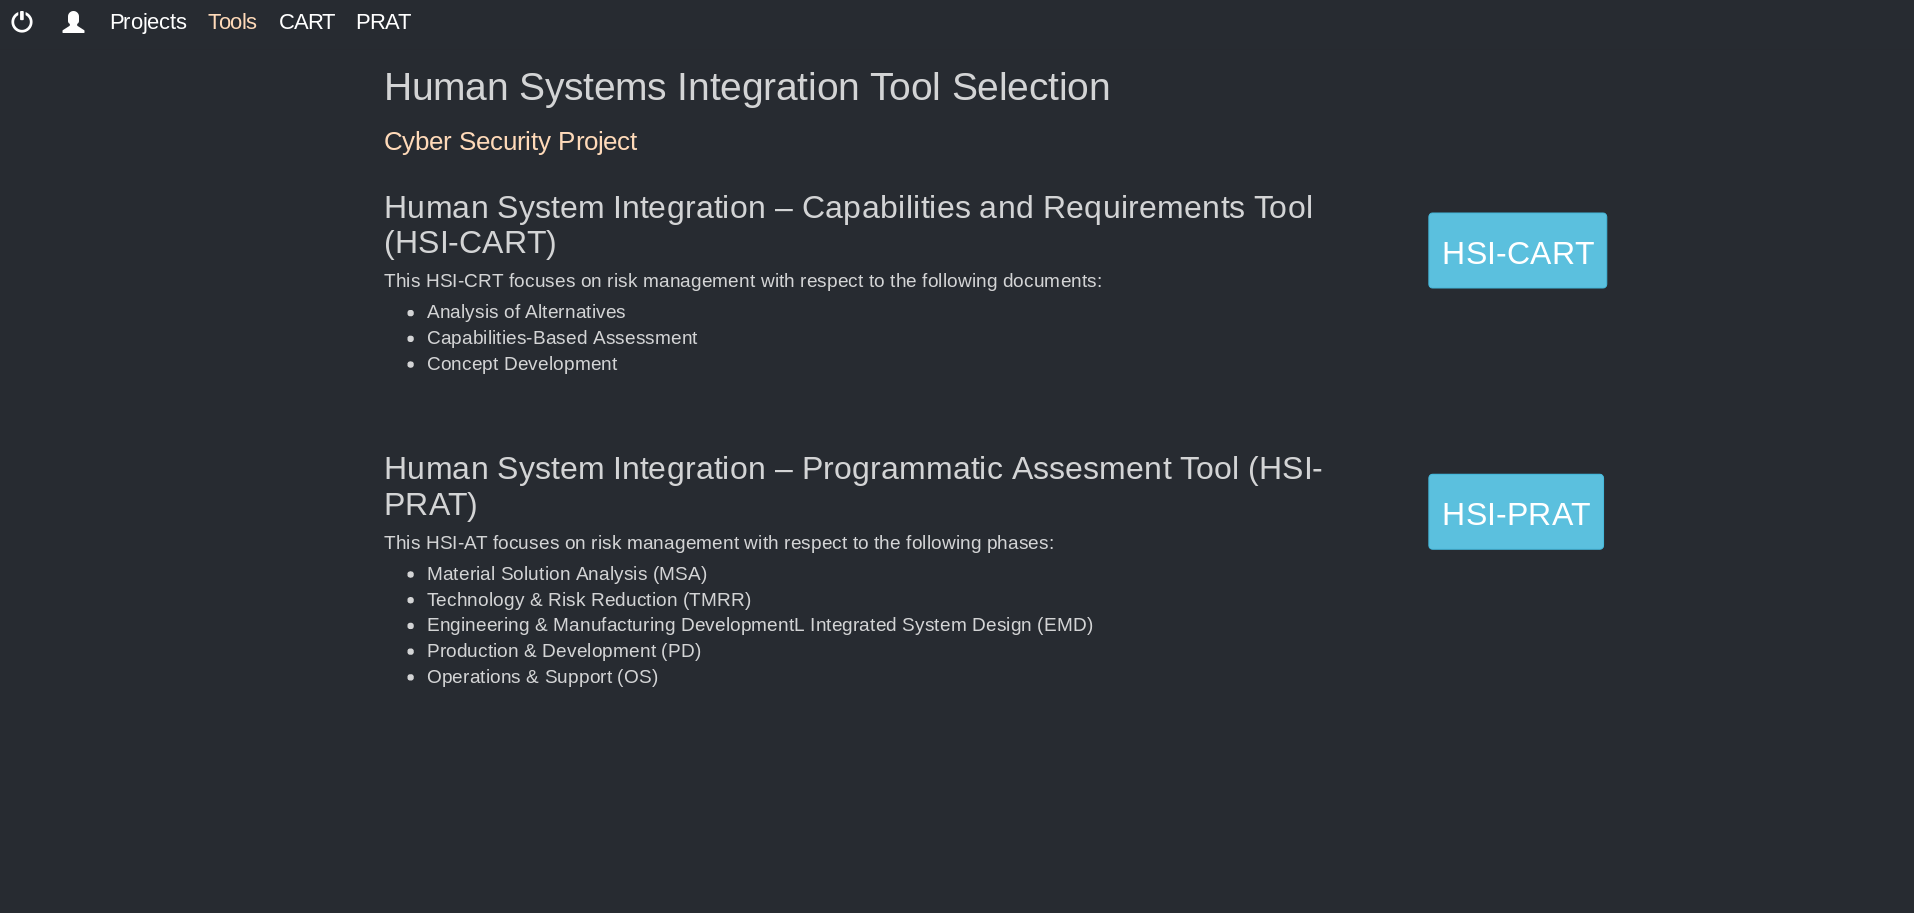
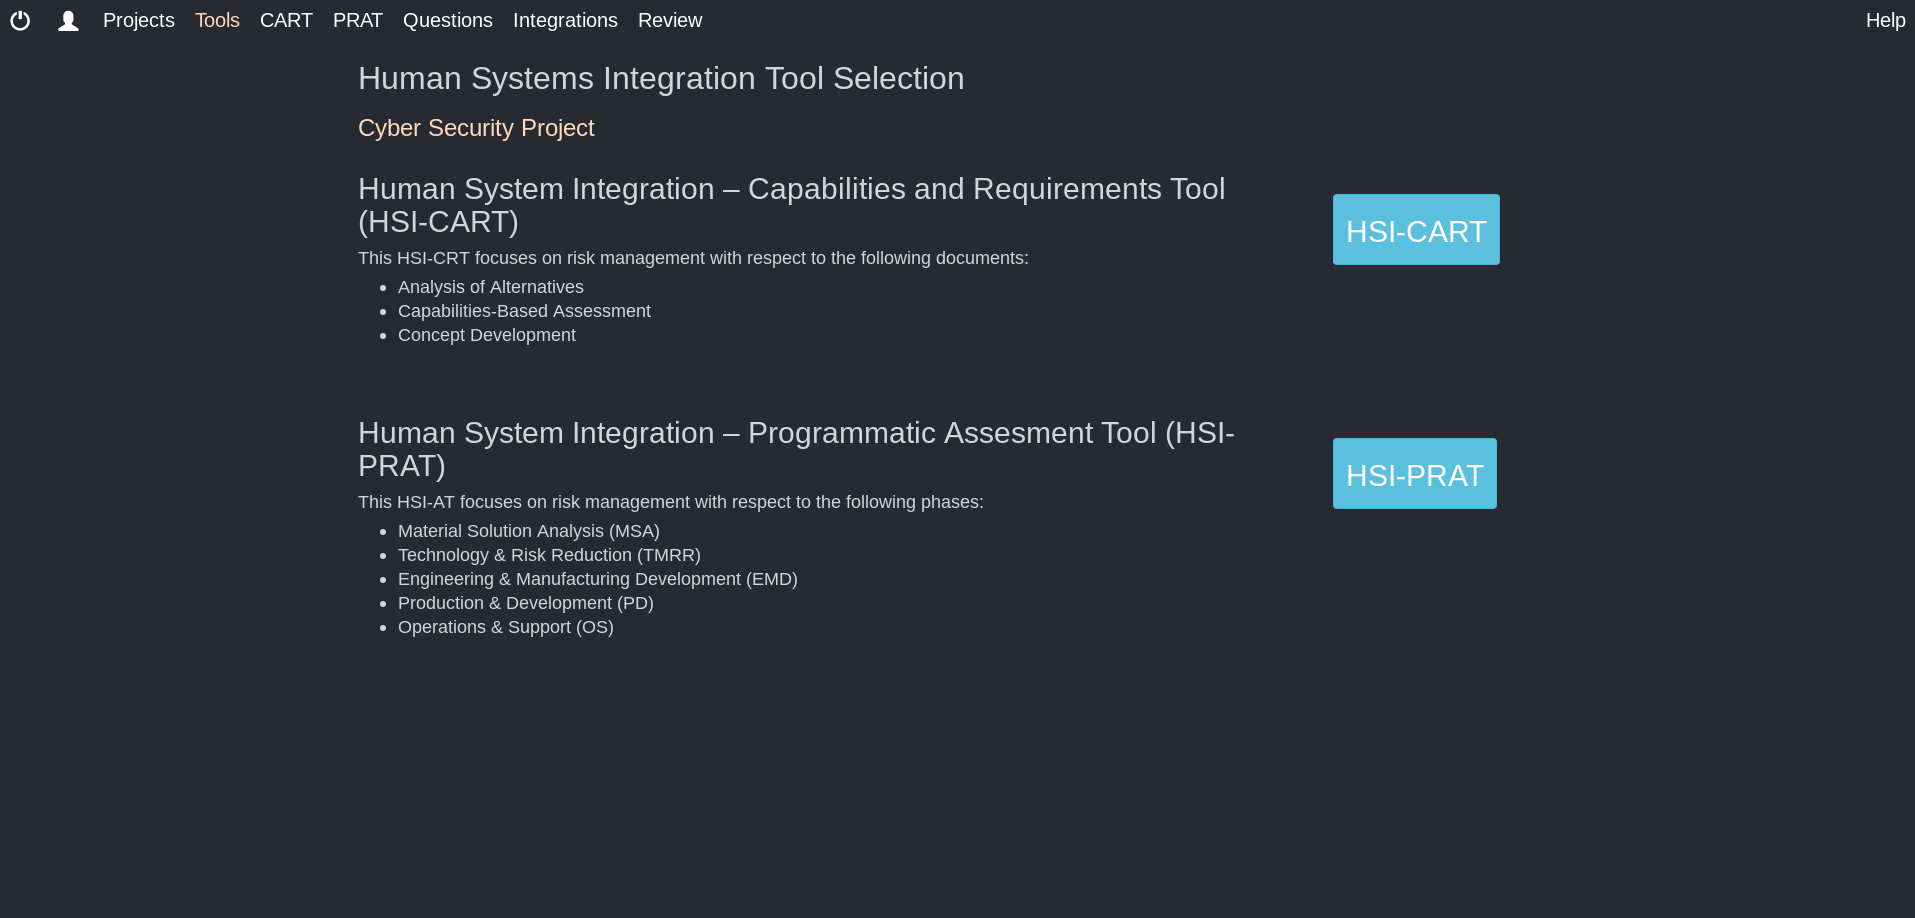
final help edits for prod

diff --git a/src/app/help/help.component.html b/src/app/help/help.component.html
@@ -36,7 +36,7 @@
     <li (click)="scrollToElement('2')" class="toc-level-1"><span class="toc-number">2.</span>USING THE HSI RISK MANAGEMENT TOOL</li>
 
     <li (click)="scrollToElement('2.1')" class="toc-level-2"><span class="toc-number">2.1</span>Editing Projects</li>
-    <li (click)="scrollToElement('2.1.1')" class="toc-level-3"><span class="toc-number">2.1.1</span>Return to the Last E#dited Questionnaire</li>
+    <li (click)="scrollToElement('2.1.1')" class="toc-level-3"><span class="toc-number">2.1.1</span>Return to the Last Edited Questionnaire</li>
     <li (click)="scrollToElement('2.1.2')" class="toc-level-3"><span class="toc-number">2.1.2</span>Switch Questionnaires</li>
     <li (click)="scrollToElement('2.1.3')" class="toc-level-3"><span class="toc-number">2.1.3</span>Edit the Project Title and Description</li>
     <li (click)="scrollToElement('2.1.4')" class="toc-level-3"><span class="toc-number">2.1.4</span>Archive a Project</li>
@@ -114,7 +114,7 @@
       support the system.
     </li>
 
-    <li>Training – design and development of instruction, resources, and support required to impart system end users
+    <li>Training – Design and development of instruction, resources, and support required to impart system end users
       with the required knowledge, skills, and abilities necessary to operate, maintain, and support the system.
     </li>
 
@@ -492,7 +492,7 @@
       not apply, you can reset the answer by clicking the keyboard "Control" + "Backspace/Delete" keys.</p>
 
   
-  <h2 id="2.3">2.3 Creating And Editing Integration Evaluations</h2>
+  <h2 id="2.3">2.3 Creating and Editing Integration Evaluations</h2>
 
   
   <h3>Add an Integration Trade-Off Evaluation</h3>

diff --git a/src/app/selectors/tools.component.html b/src/app/selectors/tools.component.html
@@ -28,7 +28,7 @@
                     <ul>
                         <li>Material Solution Analysis (MSA)</li>
                         <li>Technology & Risk Reduction (TMRR)</li>
-                        <li>Engineering & Manufacturing Developmen (EMD)</li>
+                        <li>Engineering & Manufacturing Development (EMD)</li>
                         <li>Production & Development (PD)</li>
                         <li>Operations & Support (OS)</li>
                     </ul>
